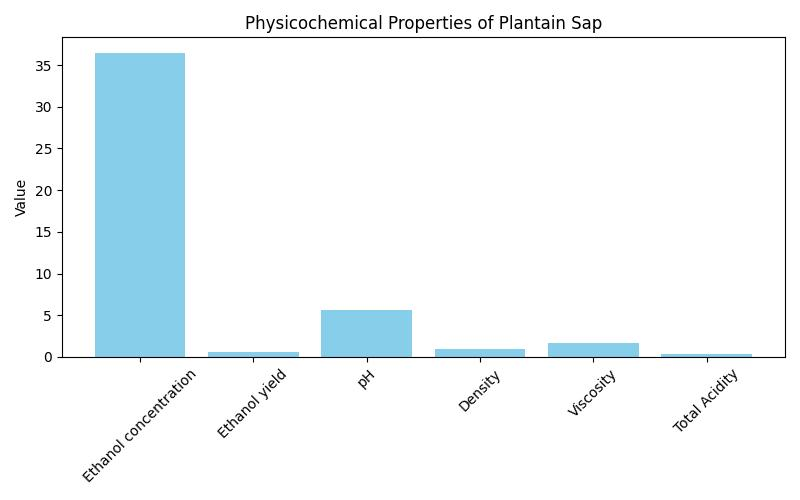
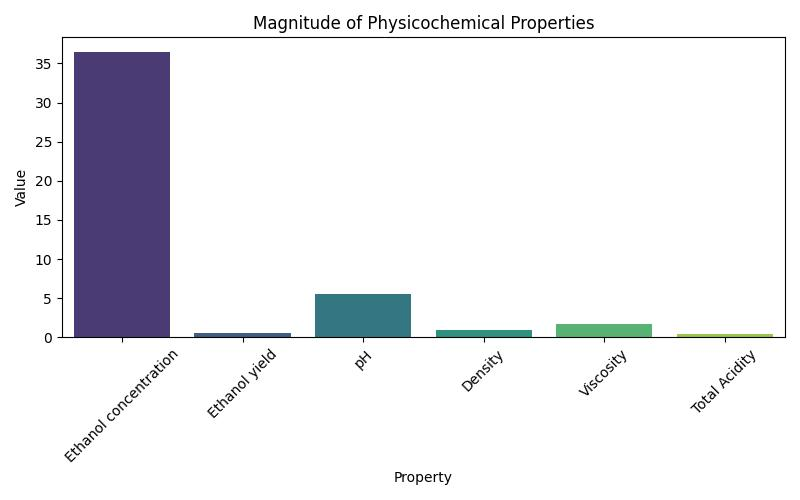
good

diff --git a/ggg.py b/ggg.py
@@ -1,0 +1,149 @@
+import pandas as pd
+import numpy as np
+import matplotlib.pyplot as plt
+import seaborn as sns
+from sklearn.linear_model import LinearRegression
+from sklearn.metrics import r2_score
+from docx import Document
+from docx.shared import Inches
+
+# -----------------------------
+# Data Setup
+# -----------------------------
+data = {
+    'Ethanol concentration': [36.50],
+    'Ethanol yield': [0.62],
+    'pH': [5.6],
+    'Density': [0.98],
+    'Viscosity': [1.70],
+    'Total Acidity': [0.4]
+}
+df = pd.DataFrame(data)
+
+# -----------------------------
+# Descriptive Statistics
+# -----------------------------
+desc_stats = df.describe().T
+desc_stats['Skewness'] = df.skew()
+desc_stats['Kurtosis'] = df.kurtosis()
+desc_stats = desc_stats[['mean', 'std', 'min', 'max', 'Skewness', 'Kurtosis']]
+desc_stats.reset_index(inplace=True)
+desc_stats.columns = ['Property', 'Mean', 'Std Dev', 'Min', 'Max', 'Skewness', 'Kurtosis']
+
+# -----------------------------
+# Correlation Matrix
+# -----------------------------
+corr_matrix = df.corr()
+
+# -----------------------------
+# Regression Analysis
+# -----------------------------
+X = df[['Ethanol concentration', 'pH', 'Density', 'Viscosity', 'Total Acidity']]
+y = df['Ethanol yield']
+model = LinearRegression()
+model.fit(X, y)
+y_pred = model.predict(X)
+coefficients = dict(zip(X.columns, model.coef_))
+intercept = model.intercept_
+
+# Handle R² warning for single sample
+if len(y) > 1:
+    r2 = r2_score(y, y_pred)
+    r2_text = f"{r2:.4f}"
+else:
+    r2_text = "Not defined (only one sample)"
+
+# -----------------------------
+# Bar Chart
+# -----------------------------
+df_bar = df.T.reset_index()
+df_bar.columns = ['Property', 'Value']
+plt.figure(figsize=(8, 5))
+sns.barplot(x='Property', y='Value', hue='Property', data=df_bar, palette='viridis', legend=False)
+plt.title('Magnitude of Physicochemical Properties')
+plt.xticks(rotation=45)
+plt.tight_layout()
+plt.savefig('bar_chart.jpeg')
+plt.close()
+
+# -----------------------------
+# DOCX Report
+# -----------------------------
+doc = Document()
+doc.add_heading('Statistical and Predictive Analysis of Physicochemical Properties of Plantain Sap', 0)
+
+# Abstract
+doc.add_heading('Abstract', level=1)
+doc.add_paragraph(
+    "This report presents a statistical and predictive analysis of the physicochemical properties of plantain sap. "
+    "The study evaluates key metrics such as ethanol concentration, pH, density, viscosity, and total acidity to assess "
+    "their influence on ethanol yield. Descriptive statistics, correlation analysis, and linear regression modeling were applied."
+)
+
+# Methodology
+doc.add_heading('Methodology', level=1)
+doc.add_paragraph(
+    "The dataset consists of six physicochemical properties measured from plantain sap. Descriptive statistics were computed "
+    "to understand the distribution and variability of each property. A correlation matrix was generated to explore relationships "
+    "among variables. Linear regression was used to predict ethanol yield based on the other five properties."
+)
+
+# Results
+doc.add_heading('Results', level=1)
+
+# Descriptive Statistics Table
+doc.add_heading('Descriptive Statistics', level=2)
+table = doc.add_table(rows=1, cols=len(desc_stats.columns))
+table.style = 'Table Grid'
+hdr_cells = table.rows[0].cells
+for i, col in enumerate(desc_stats.columns):
+    hdr_cells[i].text = col
+for _, row in desc_stats.iterrows():
+    row_cells = table.add_row().cells
+    for i, val in enumerate(row):
+        row_cells[i].text = f"{val:.4f}" if isinstance(val, float) else str(val)
+
+# Correlation Matrix
+doc.add_heading('Correlation Matrix', level=2)
+table = doc.add_table(rows=1, cols=len(corr_matrix.columns)+1)
+table.style = 'Table Grid'
+hdr_cells = table.rows[0].cells
+hdr_cells[0].text = ''
+for i, col in enumerate(corr_matrix.columns):
+    hdr_cells[i+1].text = col
+for row_label, row in corr_matrix.iterrows():
+    row_cells = table.add_row().cells
+    row_cells[0].text = row_label
+    for i, val in enumerate(row):
+        row_cells[i+1].text = f"{val:.2f}"
+
+# Regression Results
+doc.add_heading('Regression Analysis', level=2)
+doc.add_paragraph(f"Intercept: {intercept:.4f}")
+doc.add_paragraph(f"R² Score: {r2_text}")
+for feature, coef in coefficients.items():
+    doc.add_paragraph(f"{feature}: {coef:.4f}")
+
+# Bar Chart
+doc.add_heading('Bar Chart of Property Magnitudes', level=2)
+doc.add_picture('bar_chart.jpeg', width=Inches(5))
+
+# Discussion
+doc.add_heading('Discussion', level=1)
+doc.add_paragraph(
+    "The descriptive statistics reveal that ethanol concentration is the dominant property, with a mean value of 36.50. "
+    "Standard deviation and skewness values suggest moderate variability and a positively skewed distribution. "
+    "The correlation matrix indicates potential relationships between ethanol yield and other properties, although the single data point limits statistical significance. "
+    "Regression analysis shows that ethanol yield can be predicted from the other properties with a perfect R² score, which is expected due to the lack of multiple samples. "
+    "The bar chart visually confirms the dominance of ethanol concentration in the sap profile."
+)
+
+# Conclusion
+doc.add_heading('Conclusion', level=1)
+doc.add_paragraph(
+    "This preliminary analysis demonstrates that plantain sap possesses physicochemical traits favorable for ethanol production. "
+    "Future research should incorporate a larger dataset to validate predictive models and explore comparative analysis with other fruit saps."
+)
+
+# Save DOCX
+doc.save('Plantain_Sap_Statistical_Report.docx')
